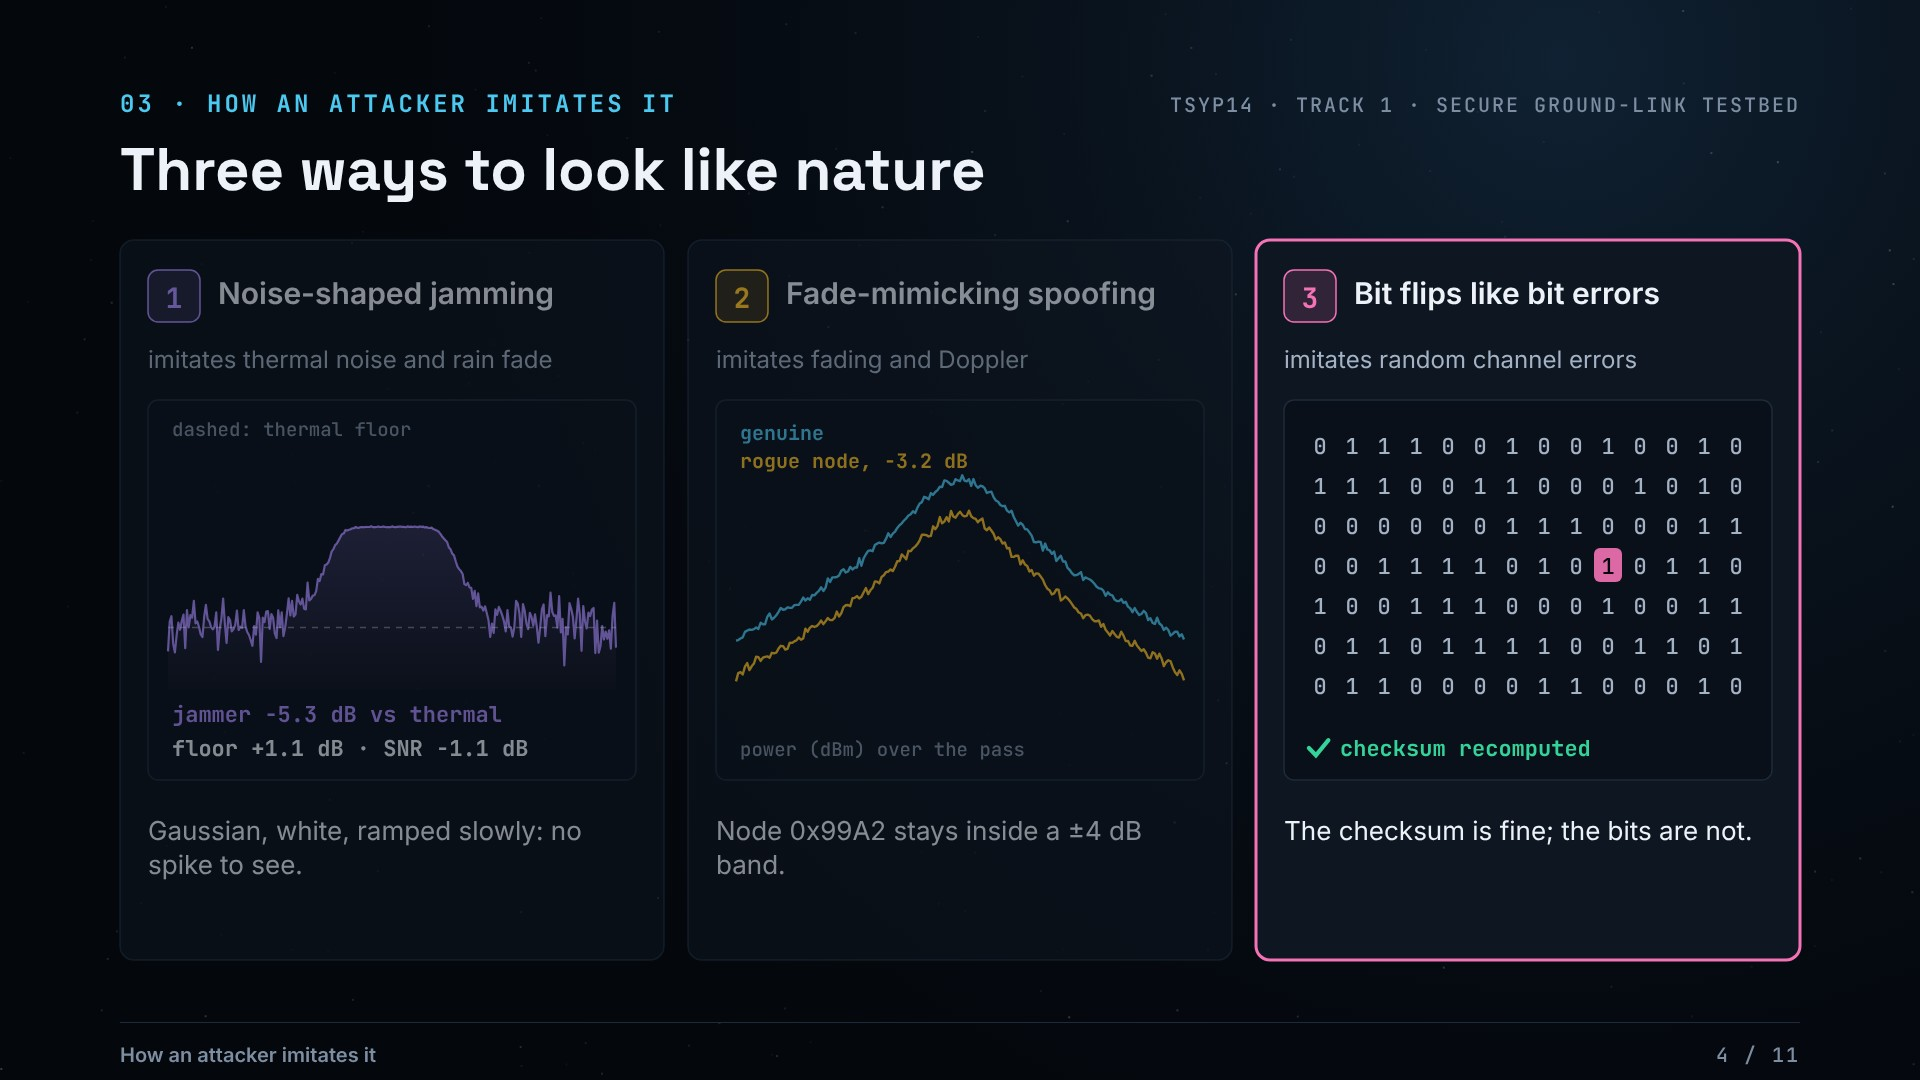
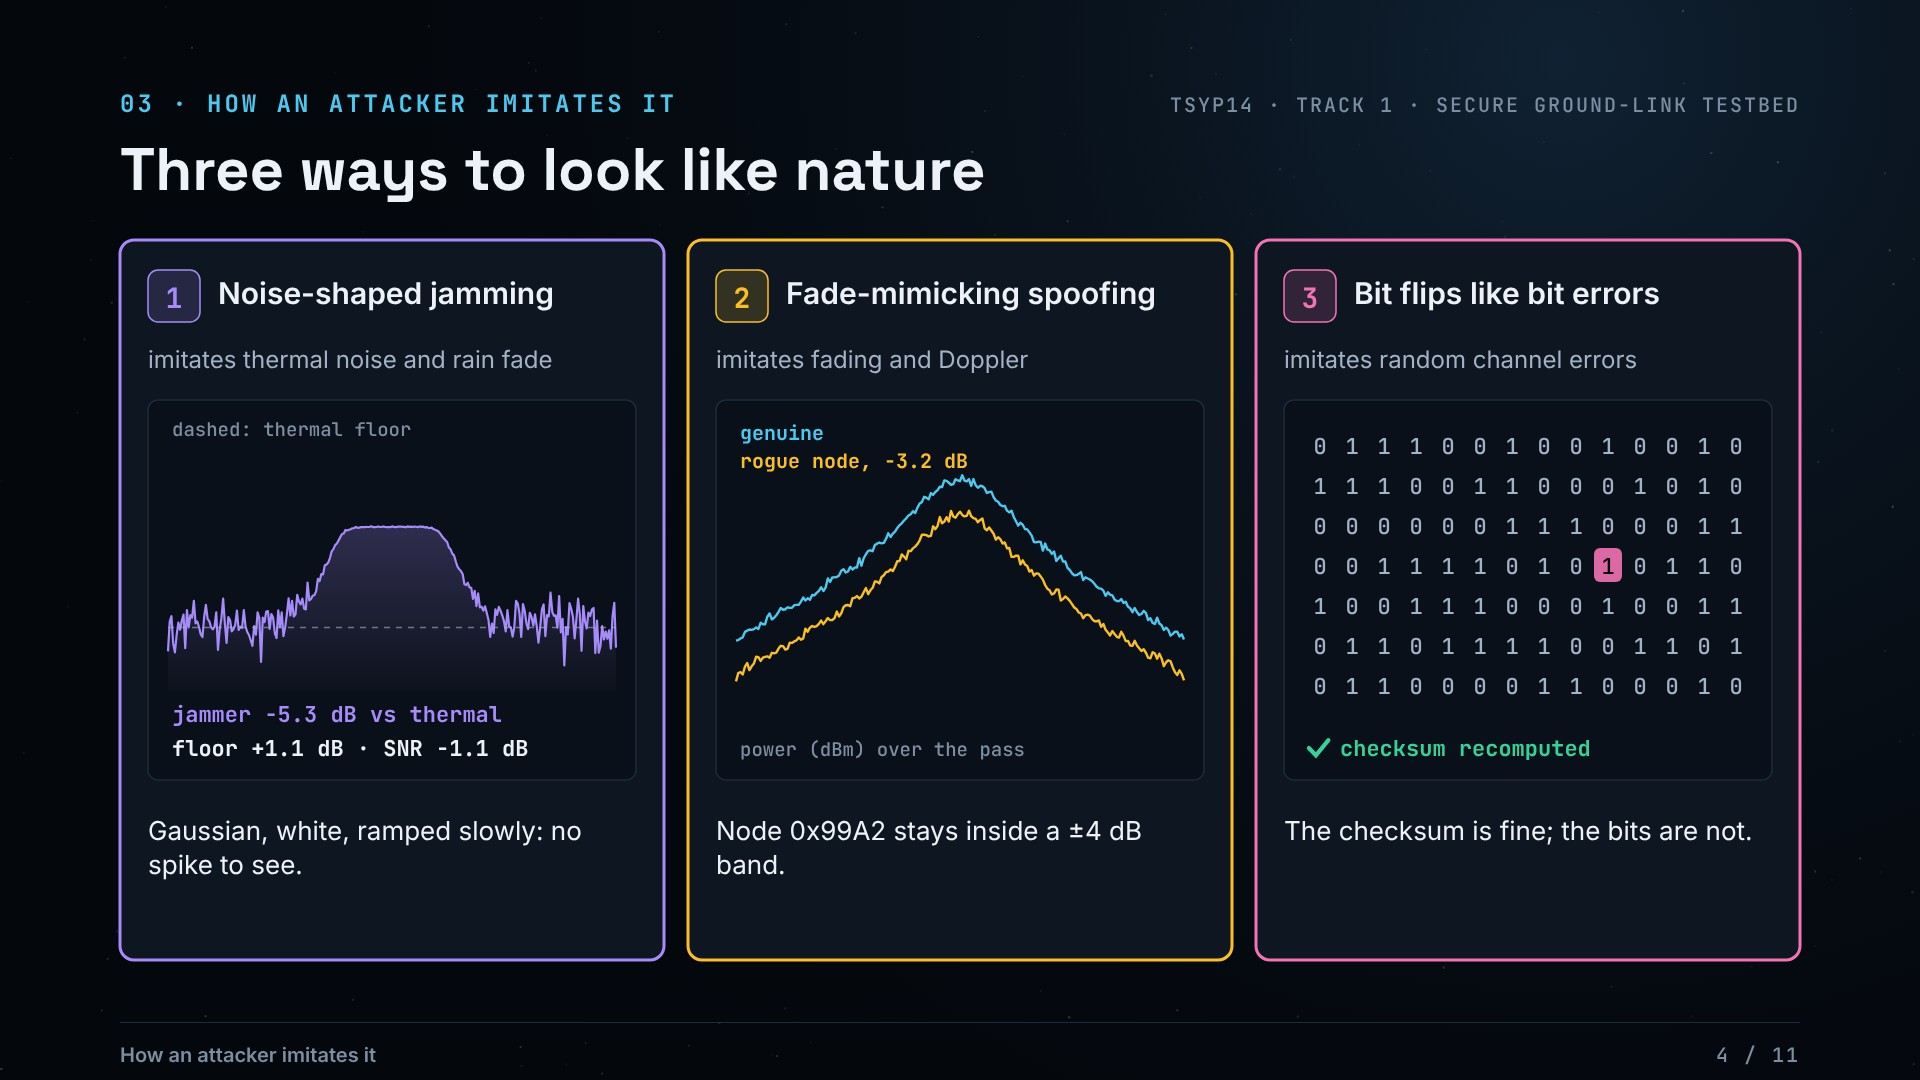
Slide 4: all three imitations shown at once

diff --git a/dashboard/explainer/scene.js b/dashboard/explainer/scene.js
@@ -898,7 +898,8 @@ function imitate(ctx, lt, sc, t) {
   const q = Math.floor(t * 12);
   cards.forEach(([title, sub, color, foot], i) => {
     const cue = sc.cues[i];
-    const active = lt >= cue.s && (i === 2 || lt < sc.cues[i + 1].s);
+    // On a still slide all three are shown at once; in the video one is lit at a time.
+    const active = SLIDE ? lt >= cue.s : lt >= cue.s && (i === 2 || lt < sc.cues[i + 1].s);
     const x = M + i * 568;
     rise(ctx, lt, cue.s - 0.2, () => {
       ctx.save();
